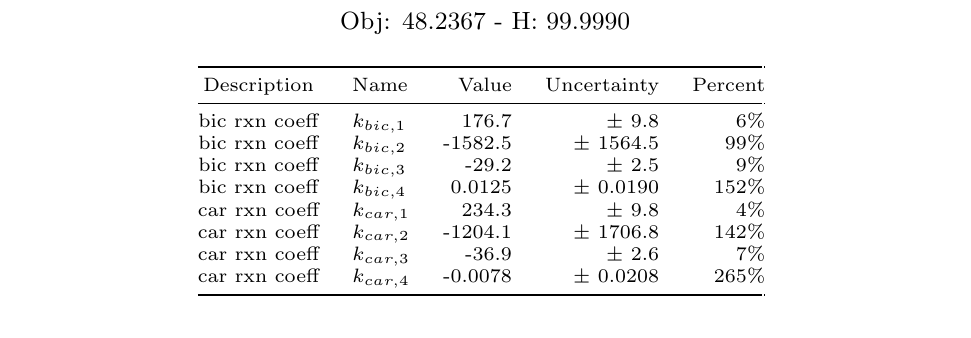
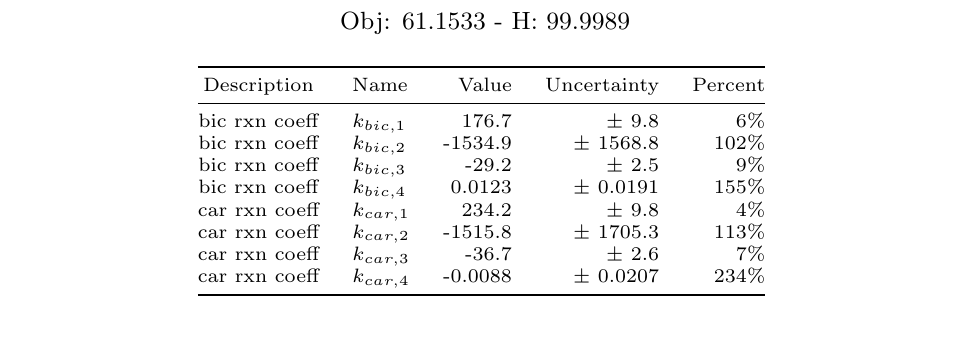
fix: run fitting routine on Linux and enable eNRTL toggle

diff --git a/Uncertainty_Analysis.py b/Uncertainty_Analysis.py
@@ -1,4 +1,5 @@
 from scipy.linalg import eigh
+import os
 import numpy as np
 import idaes.core.util.scaling as iscale
 import pyomo.environ as pyo
@@ -91,18 +92,18 @@ def uncertainty_analysis(m_scaled, df_unfit, estimated_vars, estimated_vars_scal
             #     print(str(i) + ": " + estimated_vars_scaled[i].name)
             print("Uncertainties cannot be calculated.")
             for i, var in enumerate(estimated_vars):
-                uncertainty[i] = np.NaN
+                uncertainty[i] = np.nan
                 # print(f"{var.name}: {var.value:.3e}")
     elif len(estimated_vars) > 0:
         print("Warning, active bounds at solution!")
         print("Uncertainties cannot be calculated.")
         for i, var in enumerate(estimated_vars):
-            uncertainty[i] = np.NaN
+            uncertainty[i] = np.nan
             # print(f"{var.name}: {var.value:.3e}")
-        W_value = np.NaN
+        W_value = np.nan
     else:
         print('Feasibility Problem')
-        W_value = np.NaN
+        W_value = np.nan
         # Feasibility problem
         pass
 
@@ -112,6 +113,6 @@ def uncertainty_analysis(m_scaled, df_unfit, estimated_vars, estimated_vars_scal
         df_fit.loc[i, 'Value'] = var.value
         df_fit.loc[i, 'Uncertainty'] = uncertainty[i]
         df_fit.loc[i, 'Percent'] = (abs(uncertainty[i] / var.value))
-    df_fit.to_csv(r'data\Parameters\Parameters_fit.csv', index=False)
+    df_fit.to_csv(os.path.join('data', 'Parameters', 'Parameters_fit.csv'), index=False)
 
     return df_fit, W_value

diff --git a/Create_Param_Table.py b/Create_Param_Table.py
@@ -8,10 +8,10 @@ import matplotlib.pyplot as plt
 import numpy as np
 
 
-def create_param_table(df, title='Table Title', folder=r'data\Parameters', plot=True):
+def create_param_table(df, title='Table Title', folder=os.path.join('data', 'Parameters'), plot=True):
 
     def insert_file(file_name):
-        return folder + r'\\' + file_name
+        return os.path.join(folder, file_name)
     df_table = df.drop(columns=['Object', 'Object_Name', ])
 
     df_1 = df_table[(df_table['Name'] != "$k_{car,4}$") & (df_table['Name'] != "$k_{bic,4}$")]
@@ -30,7 +30,7 @@ def create_param_table(df, title='Table Title', folder=r'data\Parameters', plot=
         df_table.loc[df_2.index, 'Uncertainty'] = df_2['Uncertainty'].map('{:.4f}'.format)
 
     for i, row in df_table.iterrows():
-        df_table.loc[i, 'Uncertainty'] = '$\pm$' + ' ' + row["Uncertainty"]
+        df_table.loc[i, 'Uncertainty'] = r'$\pm$' + ' ' + row["Uncertainty"]
 
     df_table.sort_values(by=['Name'], ascending=True, inplace=True)
     df_table['Percent'] = df_table['Percent'].map('{:.0%}'.format)
@@ -68,5 +68,5 @@ def create_param_table(df, title='Table Title', folder=r'data\Parameters', plot=
         plt.show()
 
 if __name__ == '__main__':
-    df_fit = pd.read_csv(r'data\Parameters\Parameters_fit.csv')
+    df_fit = pd.read_csv(os.path.join('data', 'Parameters', 'Parameters_fit.csv'))
     create_param_table(df_fit, 'Testing title')

diff --git a/Fitting_Routine.py b/Fitting_Routine.py
@@ -1,4 +1,5 @@
 import logging
+import os
 import pyomo.environ as pyo
 import numpy as np
 
@@ -115,10 +116,10 @@ if __name__ == "__main__":
     # %% Dataset Implementation
 
     obj_expr = 0
-    dataset_dir = r"data\data_sets_to_load"
+    dataset_dir = os.path.join('data', 'data_sets_to_load')
 
     obj_expr, dfs, param_block_names = load_datasets(m, obj_expr, dataset_dir, species_dic, get_mole_fraction, column_names,
-                                                     exclude_list=['Xu', 'Bottinger'])
+                                                     exclude_list=['Xu', 'Bottinger', 'kim'])
 
     # %% Model Initializing and Solving
 
@@ -154,7 +155,11 @@ if __name__ == "__main__":
 
     df_fit, W_value = uncertainty_analysis(m_scaled, df_unfit, var_objects, var_objects_scaled)
     if param_table:
-        create_param_table(df_fit, title=f"Obj: {pyo.value(m.obj): .4f} - H: {W_value: .4f}")
+        create_param_table(
+            df_fit,
+            title=f"Obj: {pyo.value(m.obj): .4f} - H: {W_value: .4f}",
+            plot=False,
+        )
     obj_value = pyo.value(m.obj)
 
     # %% Plotting

diff --git a/Parameter_Setup.py b/Parameter_Setup.py
@@ -37,7 +37,7 @@ def get_estimated_params(m, fit_param_dic):
         latex_mi = ''.join(latex_mi)
         return latex_mi
 
-    component_pairs = m.params.Liq.component_pair_set._ordered_values
+    component_pairs = list(m.params.Liq.component_pair_set)
     component_pairs_chosen = []
     dic = {}
 
@@ -110,7 +110,7 @@ def get_estimated_params(m, fit_param_dic):
                     param_dic['Uncertainty'].append(0.0)
                     param_dic['Percent'].append(0.0)
 
-    folder_path = 'data\Parameters'
+    folder_path = os.path.join('data', 'Parameters')
 
     # Check if the folder exists
     if not os.path.exists(folder_path):
@@ -118,7 +118,7 @@ def get_estimated_params(m, fit_param_dic):
         os.makedirs(folder_path)
 
     df_unfit = pd.DataFrame(param_dic)
-    df_unfit.to_csv(r'data\Parameters\Parameters_unfit.csv', index=False)
+    df_unfit.to_csv(os.path.join(folder_path, 'Parameters_unfit.csv'), index=False)
 
     return df_unfit
 

diff --git a/Plot_Fit.py b/Plot_Fit.py
@@ -112,7 +112,7 @@ def plot_fit(df, system_fit_dic, species_dic, get_mole_fraction, obj_value, opta
         loading_min = []
         loading_max = []
         for file in os.listdir(dataset_dir):
-            df_data = pd.read_csv(dataset_dir + '/' + file)
+            df_data = pd.read_csv(os.path.join(dataset_dir, file))
             if 'VLE' in file and (
                     w_amine in df_data[amine_concentration].values and T in df_data[temperature].values):
                 df_data = df_data[(df_data[amine_concentration] == w_amine) &
@@ -214,7 +214,7 @@ def plot_fit(df, system_fit_dic, species_dic, get_mole_fraction, obj_value, opta
         #%% Plotting data
         for file in os.listdir(data_dir):
             name = file.split('_')[0]
-            df_data = pd.read_csv(data_dir + '/' + file)
+            df_data = pd.read_csv(os.path.join(data_dir, file))
 
             if name == 'Bottinger':
                 continue

diff --git a/Load_Datasets.py b/Load_Datasets.py
@@ -128,7 +128,7 @@ def load_datasets(m, obj_expr, dataset_dir, species_dic, get_mole_fraction, colu
     dfs = []
     param_block_names = []
     for name in os.listdir(dataset_dir):
-        filename = dataset_dir + os.sep + name
+        filename = os.path.join(dataset_dir, name)
         name, year, dataset_type = name.split('_')
         if name in exclude_list:
             continue
